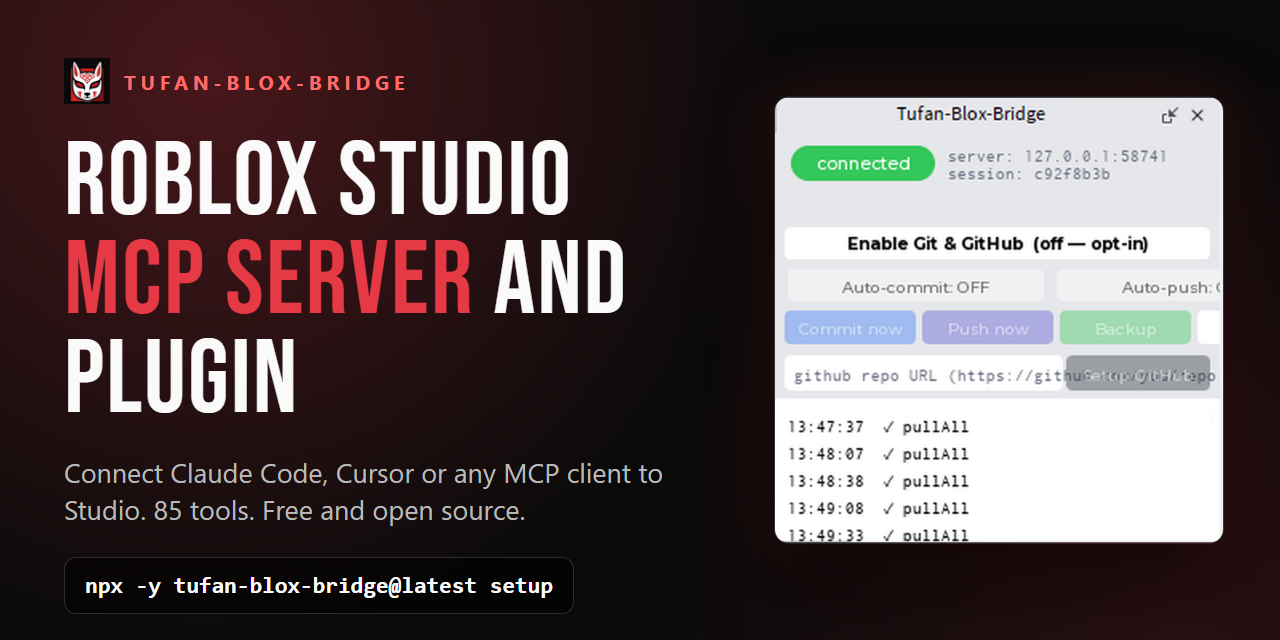
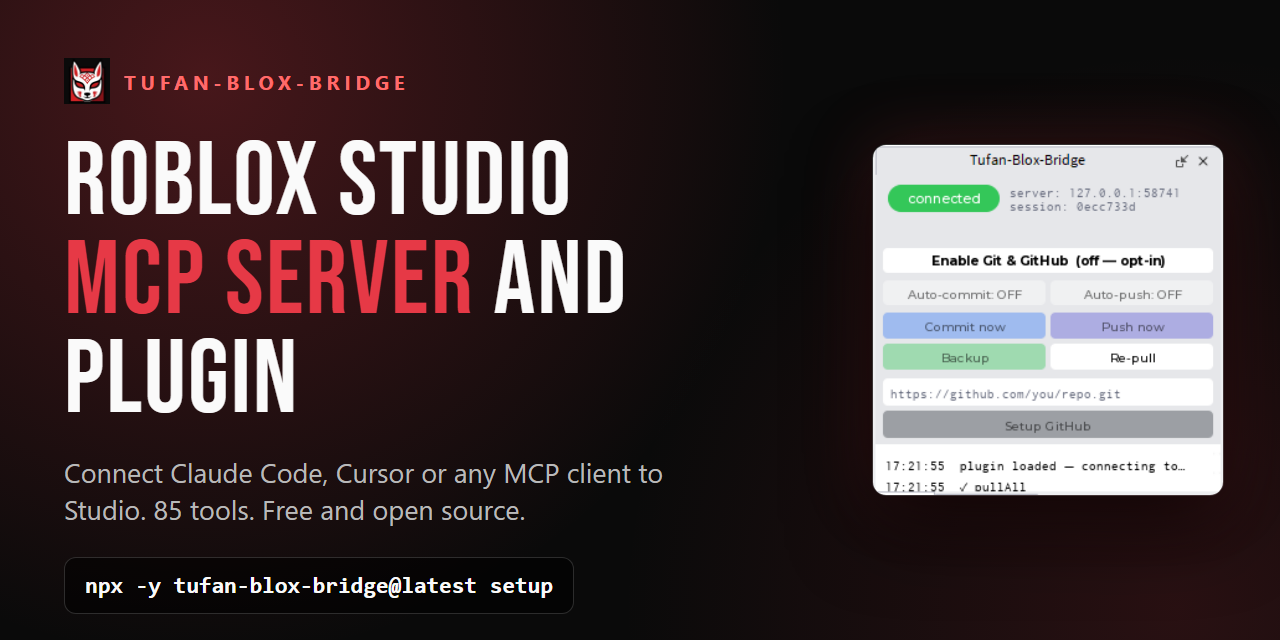
Show the fixed plugin panel on the Roblox MCP page
The old capture showed the GitHub URL box overlapping Setup GitHub. Swaps
the panel and social images, shows the panel at its real size so it stays
sharp, and versions both URLs because images are cached for 30 days.

Changed region(s): [[0.5938, 0.125, 0.9688, 0.875]]

diff --git a/src/lib/bloxBridge.ts b/src/lib/bloxBridge.ts
@@ -17,10 +17,10 @@ export const BLOX_BRIDGE = {
     "A free Roblox Studio MCP server and plugin. Connect Claude Code or Cursor to Studio, and every AI edit comes with snapshots, git history and a backdoor scanner.",
   images: {
     widget: {
-      src: "/images/roblox-mcp/plugin-widget.png",
+      src: "/images/roblox-mcp/plugin-widget.png?v=2",
       alt: "The Tufan-Blox-Bridge plugin panel in Roblox Studio, connected to a place",
-      width: 560,
-      height: 556,
+      width: 282,
+      height: 282,
     },
     studio: {
       src: "/images/roblox-mcp/studio-plugin.webp",
@@ -29,7 +29,7 @@ export const BLOX_BRIDGE = {
       height: 867,
     },
     social: {
-      src: "/images/roblox-mcp/social-preview.png",
+      src: "/images/roblox-mcp/social-preview.png?v=2",
       alt: "Tufan-Blox-Bridge, a Roblox Studio MCP server and plugin",
       width: 1280,
       height: 640,

diff --git a/src/components/bloxbridge/BloxBridgeContent.tsx b/src/components/bloxbridge/BloxBridgeContent.tsx
@@ -254,7 +254,7 @@ export default function BloxBridgeContent() {
                 width={BLOX_BRIDGE.images.widget.width}
                 height={BLOX_BRIDGE.images.widget.height}
                 loading="lazy"
-                className="mx-auto h-auto w-full max-w-sm rounded-xl border border-white/10"
+                className="mx-auto h-auto w-full max-w-[282px] rounded-xl border border-white/10"
               />
               <figcaption className="mt-3 text-center text-sm text-storm-muted">
                 The plugin panel: connection status, git buttons and a live activity feed.
